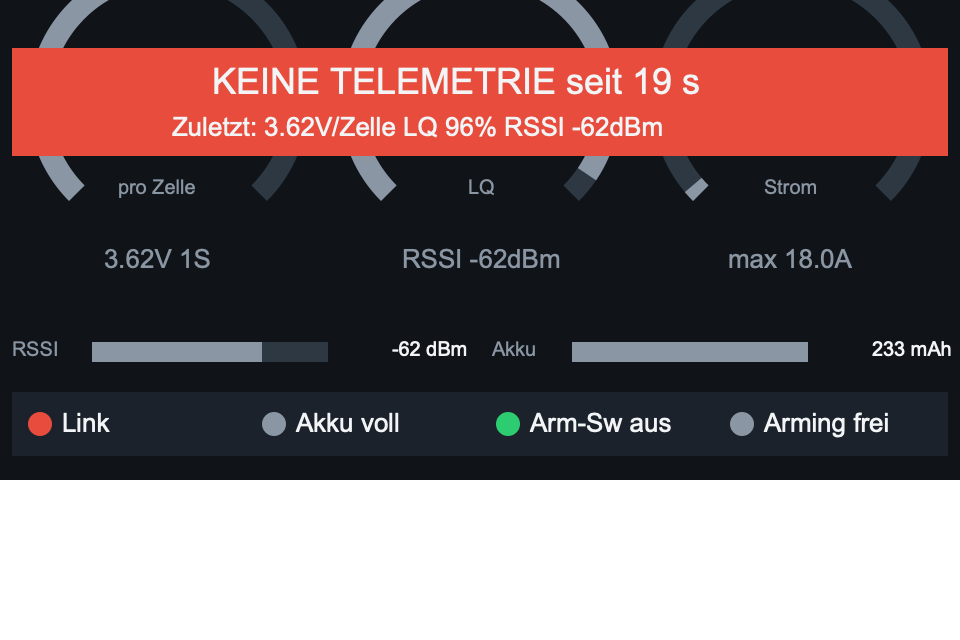
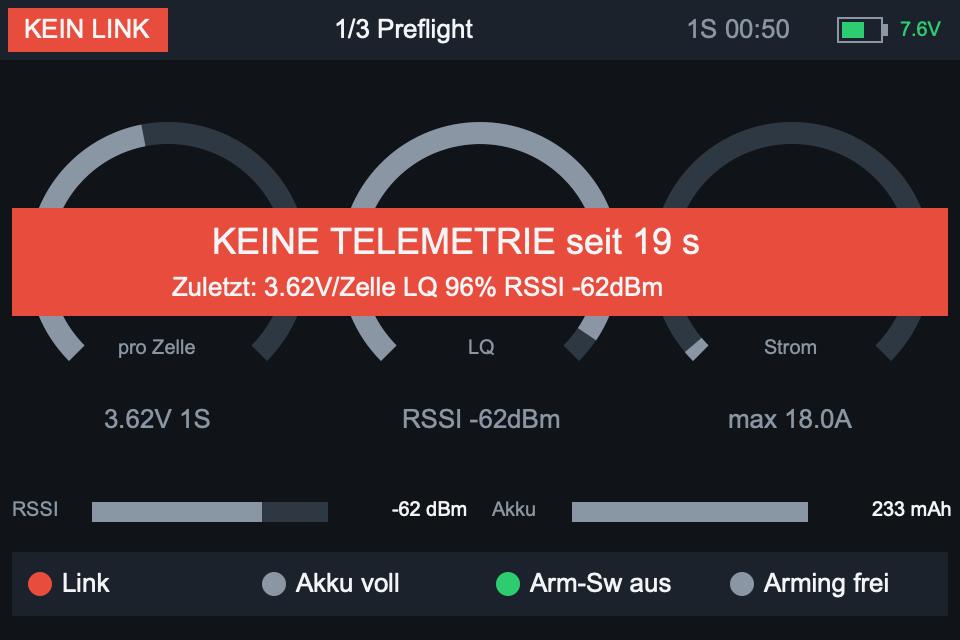
Senderakku in der Kopfzeile, README-Bilder korrekt zugeschnitten
Symbol + Spannung aus tx-voltage, Prozent nach battMin/battMax aus den
Radio-Einstellungen, rot ab battWarn. Der Seitentitel wird bei Platzmangel
gekürzt oder ausgeblendet. Die README-Bilder waren mittig statt oben
beschnitten (Kopfzeile fehlte).

diff --git a/README.md b/README.md
@@ -12,6 +12,8 @@ Entwickelt für die RadioMaster TX15 (EdgeTX 3.0, 480×320 Farbdisplay, ELRS 4.x
 
 ## Seiten
 
+Die **Kopfzeile** auf allen Seiten zeigt den Arm-Status (DISARMED/ARMED/ARM GESPERRT/FAILSAFE/KEIN LINK), den Betaflight-Flugmodus, den Seitentitel, Zellenzahl und Flugzeit sowie den **Akku des Senders** (Symbol + Spannung). Die Prozentanzeige richtet sich nach den Akku-Schwellen in den Radio-Einstellungen (Min/Max/Warnung), rot ab der Warnschwelle.
+
 1. **Preflight**: Rundinstrumente für Spannung pro Zelle, LQ und Strom. Balken für RSSI und Akku-%. Ampel-Checkliste: Link, Akku voll, Arm-Schalter aus, Arming frei (Betaflight `!ERR`)
 2. **Link**: Uplink/Downlink LQ, RSSI beider Antennen (die aktive ist markiert), SNR, TX Power, RF-Mode. Verlaufsgraph der letzten 60 s, Link-Verluste in Rot
 3. **Session**: Flugzeit (zählt nur armed), Zellenspannung Start/Minimum, verbrauchte mAh, maximaler Strom, minimale LQ/RSSI, Link-Verluste und längster Ausfall. Künstlicher Horizont zum Prüfen der FC-Ausrichtung
